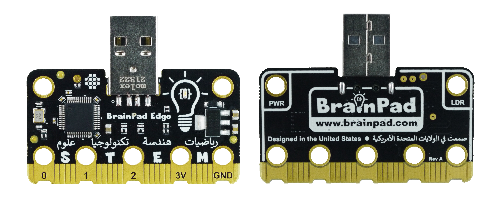
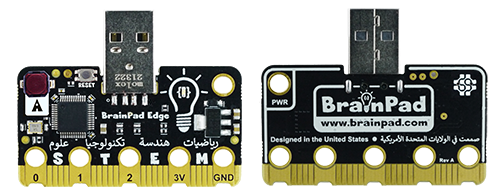
Update images and more refinements.

diff --git a/hardware/brainpad.md b/hardware/brainpad.md
@@ -8,16 +8,16 @@ Educators now have the power to use their beloved language-of-choice with BrainP
 
 Both BrainPad Pulse and BrainPad Edge are fully supported. However, BrainPad Pulse include additional natively-supported, which are the display and the buzzer.
 
-tip: The heart to the BrainPad Pulse is STICore SC113 chipset. And for BrainPad Edge is SITCore SC007.
+tip: The heart to the BrainPad Pulse is SITCore SC113 chipset. And for BrainPad Edge is SITCore SC007.
 
 ## Getting Ready
 The first step is to load the appropriate firmware onto the device. But first, we need to put the board in "loader mode". On Pulse, hold the **A** button down while resetting the board.  
 
 Loading the firmware is done on the BrainPad loader page loader.brainpad.com
 
-
-## BrainPad Edge
-![BrainPad Edge](images/brainpad-edge.png "gedfgsdfgsdfs") 
-
 ## BrainPad Pulse
 ![BrainPad Pulse](images/brainpad-pulse.png) 
+
+## Stay Tuned!
+![BrainPad Edge](images/brainpad-edge.png "gedfgsdfgsdfs") 
+

diff --git a/hardware/fez.md b/hardware/fez.md
@@ -1,14 +1,25 @@
 # FEZ
 ---
+These FEZ products can be used with DUE platform.
+
 
 ## FEZ Flea
+
+The FEZ Flea form factor is the same as the Seeed Studio Xiao. This opens up the option for many existing accessories. 
+
+The FEZ Flea can also be soldered to a PCB just like a SoM.
 
 ![Fez Flea](images/fez-flea.png) 
 
 ![Flea Pinout](images/flea-due-pinout.png) 
 
+---
 
 ## FEZ Pico
+
+The FEZ Pico form factor is the same as the Raspberry Pi Pico. This opens up the option for many existing accessories.
+
+The FEZ Pico also includes a STEMMA connector that can connect to many existing STEMMA modules. 
 
 ![Fez Flea](images/fez-pico.png) 
 

diff --git a/hardware/intro.md b/hardware/intro.md
@@ -1,9 +1,9 @@
 # DUE Hardware
 ---
-The DUE platform is supported in several GHI Electronics' devices, including the educational BrainPad devices.
+The DUE platform is supported on several GHI Electronics' devices, including the educational BrainPad devices. If you're already a Maker then the FEZ options are a great place to jump in and start. If you're new to hardware then BrainPad is great option to get you started.
 
-> !
-> All Due supporting hardware has an onboard LED that is located at pin 100. `dwrite(100,1)`
+> [!NOTE]
+> All DUE supported hardware has an onboard LED that is located at pin 100. `dwrite(100,1)`
 
 ## BrainPad
 

diff --git a/software/due-script/corelib/systemfunctions.md b/software/due-script/corelib/systemfunctions.md
@@ -4,7 +4,14 @@
 **enable:** 0 = Enable echo , 1 = Disable echo
 
 - **Version**  - Returns the current firmware version of DUE <br>
+The last character returned in Version is board <br> 
 
+  | Board       | Character |
+  | :---        |:---       |
+  |    Pulse    |     P     |
+  |    Edge     |     E     |
+  |    Flea     |     F     |
+  |    Pico     |     P     |
 - **Print(text)**  - Prints the value of the argument to the console on the same line <br>
 **text:** String or variable
 
